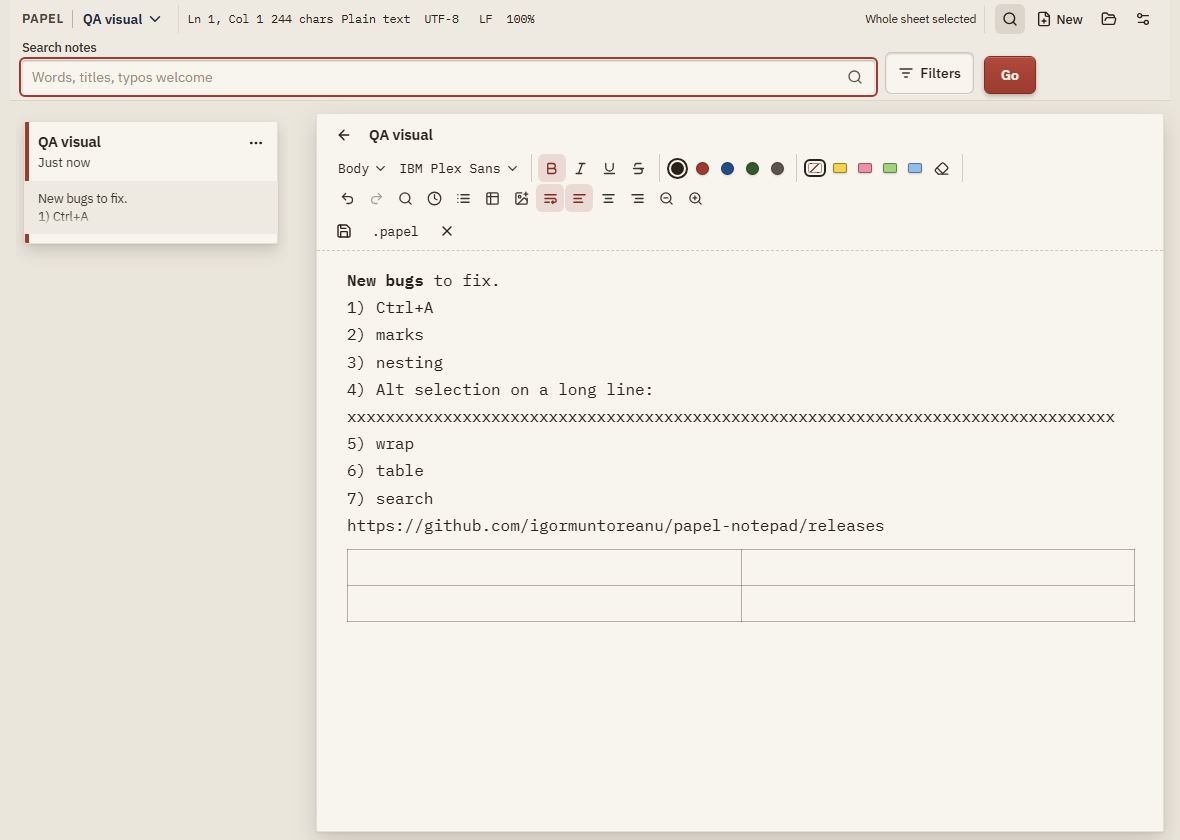
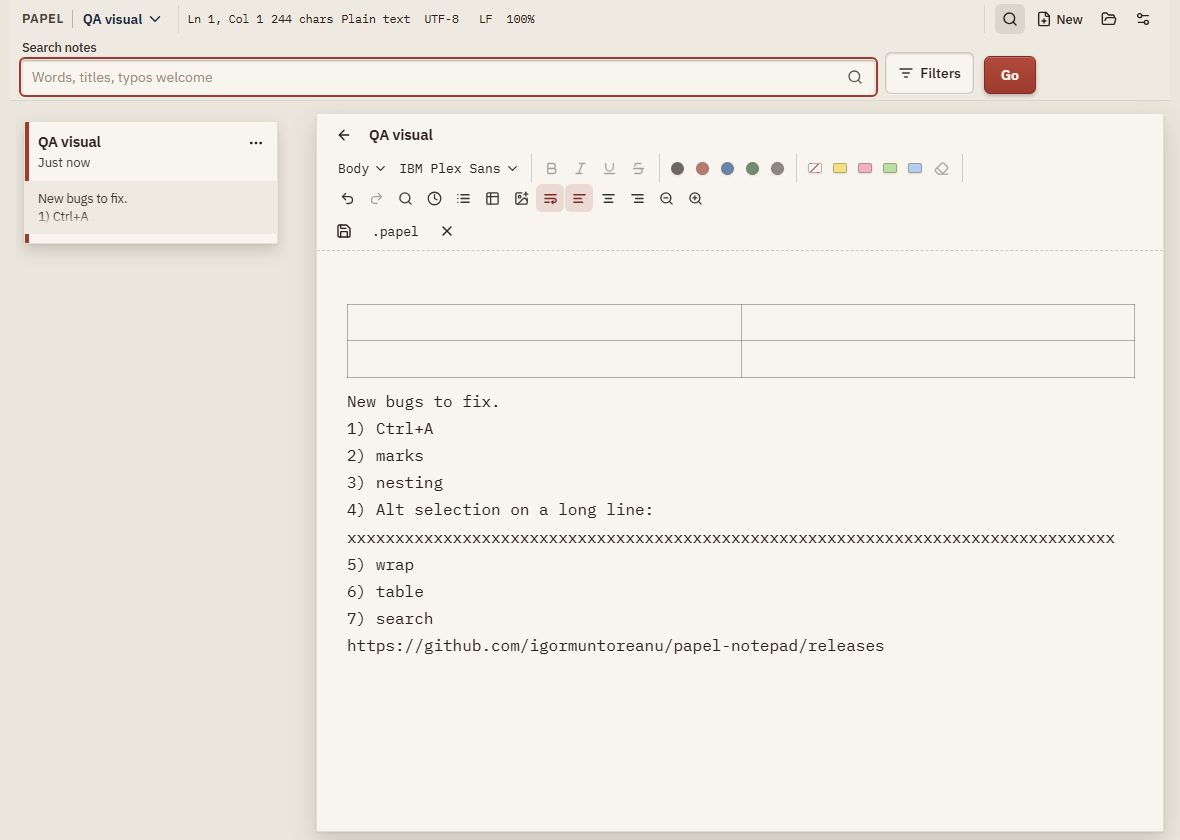
Fix table insert at caret and stop scroll jump on long notes.
Split the text block at the caret when inserting or pasting a table, and preserve sheet scrollTop across textarea fit() so large pastes do not jump to the top.

diff --git a/src/components/quire/quire-app.tsx b/src/components/quire/quire-app.tsx
@@ -775,16 +775,19 @@ export function QuireApp() {
     if (!session || !activeId) return;
     const cols = rows[0]?.length ?? 0;
     if (cols < 2 || rows.length === 0) return;
-    const id = session.insert_table(blockId, cols, rows.length);
+    const caret = liveCaret();
+    const at = caret.blockId === blockId ? Math.min(caret.start, caret.end) : session.text_of(blockId).length;
+    const placed = splitInsertTable(blockId, at, cols, rows.length);
+    if (!placed) return;
     rows.forEach((row, r) => {
       row.forEach((value, c) => {
-        if (value) session.table_set_text(id, r, c, value);
+        if (value) session.table_set_text(placed.tableId, r, c, value);
       });
     });
-    setSel({ blockId: id, start: 0, end: 0 });
+    setSel({ blockId: placed.belowId, start: 0, end: 0 });
     setMessage(`Pasted ${rows.length} × ${cols} as a table`);
     touch(activeId);
-    bump();
+    bump({ block_id: placed.belowId, start: 0, end: 0 });
   }
 
   function selectWholeSheet() {
@@ -866,15 +869,74 @@ export function QuireApp() {
     return index;
   }
 
-  /** Inserts a monospace table skeleton as text: one edit, one undo step. */
+  /**
+   * Splits text block `id` at UTF-16 offset `at`, inserts a table, and returns
+   * `{ tableId, belowId }` for the new table and the text block under it.
+   * Mirrors image insert: left text | table | right text.
+   */
+  function splitInsertTable(id: number, at: number, cols: number, rows: number): { tableId: number; belowId: number } | null {
+    if (!session) return null;
+    const full = session.text_of(id);
+    const cut = Math.max(0, Math.min(at, full.length));
+    const outlineBefore = outlineOf(session);
+    const blockIndex = outlineBefore.findIndex((item) => item.id === id);
+
+    // Caret at the end: keep the classic "table after this block" behaviour.
+    if (cut >= full.length) {
+      const tableId = session.insert_table(id, cols, rows);
+      const outline = outlineOf(session);
+      const tIdx = outline.findIndex((item) => item.id === tableId);
+      const below = tIdx >= 0 ? outline[tIdx + 1] : undefined;
+      return { tableId, belowId: below?.kind === "text" ? below.id : tableId };
+    }
+
+    // Caret at the start: insert after the previous block so we do not leave an
+    // empty text block above the table.
+    if (cut === 0 && blockIndex > 0) {
+      const prev = outlineBefore[blockIndex - 1]!;
+      const tableId = session.insert_table(prev.id, cols, rows);
+      return { tableId, belowId: id };
+    }
+
+    const left = full.slice(0, cut);
+    const right = full.slice(cut);
+    const priorMarks = readMarks(session.marks(id));
+    session.edit(id, 0, full.length, left, false);
+    const tableId = session.insert_table(id, cols, rows);
+    const outline = outlineOf(session);
+    const tIdx = outline.findIndex((item) => item.id === tableId);
+    const below = tIdx >= 0 ? outline[tIdx + 1] : undefined;
+    if (!below || below.kind !== "text") return { tableId, belowId: tableId };
+    if (right) {
+      session.edit(below.id, 0, 0, right, false);
+      for (const mark of priorMarks) {
+        if (mark.end <= cut) continue;
+        const from = Math.max(mark.start, cut) - cut;
+        const to = mark.end - cut;
+        if (to <= from) continue;
+        if (mark.flags & FLAG.bold) session.apply_style(below.id, from, to, "bold", 1);
+        if (mark.flags & FLAG.italic) session.apply_style(below.id, from, to, "italic", 1);
+        if (mark.flags & FLAG.underline) session.apply_style(below.id, from, to, "underline", 1);
+        if (mark.flags & FLAG.strike) session.apply_style(below.id, from, to, "strike", 1);
+        if (mark.ink) session.apply_style(below.id, from, to, "ink", mark.ink);
+        if (mark.hl) session.apply_style(below.id, from, to, "hl", mark.hl);
+      }
+    }
+    return { tableId, belowId: below.id };
+  }
+
+  /** Inserts a table at the caret, splitting the text block (same as paste image). */
   function insertTable(rows: number, cols: number) {
     if (!session) return;
-    const after = selRef.current.blockId || session.first_text_id();
-    const id = session.insert_table(after, cols, rows);
+    const { blockId, start, end } = liveCaret();
+    const id = blockId || session.first_text_id();
+    const at = Math.min(start, end);
+    const placed = splitInsertTable(id, at, cols, rows);
     setCellTarget(null);
-    setSel({ blockId: id, start: 0, end: 0 });
+    if (!placed) return;
+    setSel({ blockId: placed.belowId, start: 0, end: 0 });
     touch(activeId);
-    bump();
+    bump({ block_id: placed.belowId, start: 0, end: 0 });
   }
 
   /** Adds or removes `• ` on the lines the selection covers. */
@@ -984,6 +1046,19 @@ export function QuireApp() {
       const start = el.selectionStart ?? 0;
       const end = el.selectionEnd ?? start;
       if (Number.isFinite(blockId) && end > start) return { blockId, start, end };
+    }
+    return selRef.current;
+  }
+
+  /** Caret (or range) from the focused text editor, including a collapsed caret. */
+  function liveCaret(): Sel {
+    const el = document.activeElement;
+    if (el instanceof HTMLTextAreaElement && el.classList.contains("editor")) {
+      const host = el.closest<HTMLElement>(".block");
+      const blockId = Number(host?.dataset.blockId ?? "");
+      const start = el.selectionStart ?? 0;
+      const end = el.selectionEnd ?? start;
+      if (Number.isFinite(blockId)) return { blockId, start, end };
     }
     return selRef.current;
   }

diff --git a/src/components/quire/text-block.tsx b/src/components/quire/text-block.tsx
@@ -567,6 +567,10 @@ function revealCaret(ta: HTMLTextAreaElement) {
 }
 
 function fit(ta: HTMLTextAreaElement, wrap: boolean) {
+  // Measuring height via height:0 collapses the sheet for a frame and jumps scroll
+  // to the top on long notes — keep the sheet's scrollTop across the reflow.
+  const sheet = ta.closest(".sheet");
+  const scrollTop = sheet instanceof HTMLElement ? sheet.scrollTop : null;
   ta.style.height = "0px";
   if (!wrap) {
     ta.style.width = "0px";
@@ -580,6 +584,7 @@ function fit(ta: HTMLTextAreaElement, wrap: boolean) {
   // scroll viewport, letting painted marks drift away from the glyphs they mark.
   const pre = ta.parentElement?.querySelector("pre");
   if (pre instanceof HTMLElement) pre.style.width = ta.style.width;
+  if (sheet instanceof HTMLElement && scrollTop !== null) sheet.scrollTop = scrollTop;
 }
 
 /** Width of one character. The editor is monospace, so this is the column grid. */

diff --git a/rust/quire-core/src/document.rs b/rust/quire-core/src/document.rs
@@ -1046,8 +1046,8 @@ impl Document {
     /// A text block is always left directly after the table when the next block is
     /// not already text. Without it a table dropped at the end of the document is a
     /// dead end: there is nothing below to put the caret in, so writing cannot
-    /// continue past the table. `insert_image` splits its text block for the same
-    /// reason.
+    /// continue past the table. Prefer [`Self::insert_table_at`] when the caret is
+    /// inside a text block so the table splits that block mid-content.
     pub fn insert_table(&mut self, after: u32, cols: usize, rows: usize) -> u32 {
         let id = self.alloc_id();
         let cols = cols.clamp(1, 20);
@@ -1068,6 +1068,60 @@ impl Document {
         let caret = self.fallback_caret();
         self.push_structure(before, caret, caret);
         id
+    }
+
+    /// Inserts a table at UTF-16 offset `at` inside text block `id`, splitting that
+    /// block the same way [`Self::insert_image`] does: left text | table | right text.
+    ///
+    /// Returns the caret for the text block below the table (ready to keep typing).
+    /// When `id` is not a text block, falls back to inserting after that block.
+    pub fn insert_table_at(&mut self, id: u32, at: u32, cols: usize, rows: usize) -> Option<Caret> {
+        let cols = cols.clamp(1, 20);
+        let rows = rows.clamp(1, 20);
+        let idx = self.blocks.iter().position(|b| b.id() == id)?;
+        let body = match &self.blocks[idx] {
+            Block::Text { body, .. } => body.clone(),
+            _ => {
+                let table_id = self.insert_table(id, cols, rows);
+                let outline = self.outline();
+                let pos = outline.iter().position(|item| item.id == table_id)?;
+                let below = outline.get(pos + 1).filter(|item| item.kind == "text")?;
+                return Some(Caret { block_id: below.id, start: 0, end: 0 });
+            }
+        };
+        let before = self.blocks.clone();
+        let at = at.min(utf16_len(&body) as u32);
+        let left = slice_utf16(&body, 0, at as usize);
+        let right = slice_utf16(&body, at as usize, utf16_len(&body));
+        let table_id = self.alloc_id();
+        let right_id = self.alloc_id();
+        let mut right_marks = Vec::new();
+        if let Block::Text { body, marks: m, .. } = &mut self.blocks[idx] {
+            *body = left;
+            let (l, r) = marks::split(m, at);
+            *m = l;
+            right_marks = r;
+        }
+        self.blocks.insert(
+            idx + 1,
+            Block::Table {
+                id: table_id,
+                cols,
+                cells: vec![Cell::default(); cols * rows],
+            },
+        );
+        self.blocks.insert(
+            idx + 2,
+            Block::Text {
+                id: right_id,
+                body: right,
+                marks: right_marks,
+            },
+        );
+        let caret_before = Caret { block_id: id, start: at, end: at };
+        let caret_after = Caret { block_id: right_id, start: 0, end: 0 };
+        self.push_structure(before, caret_before, caret_after);
+        Some(caret_after)
     }
 
     /// Applies a style change over `start..end` inside one cell.
@@ -1621,6 +1675,23 @@ mod tests {
         let mut doc = Document::new();
         let id = doc.restore_table(3, vec![Cell::default(), Cell::default()]);
         assert_eq!(doc.table_shape(id), Some((1, 3)));
+    }
+
+    #[test]
+    fn insert_table_at_splits_text_at_the_caret() {
+        let mut doc = Document::new();
+        let text = doc.first_text_id();
+        doc.edit(text, 0, 0, "helloWORLD", false);
+        // Caret between hello and WORLD (offset 5).
+        let caret = doc.insert_table_at(text, 5, 2, 2).expect("split insert");
+        let outline = doc.outline();
+        assert_eq!(outline.len(), 3);
+        assert_eq!(outline[0].kind, "text");
+        assert_eq!(outline[1].kind, "table");
+        assert_eq!(outline[2].kind, "text");
+        assert_eq!(doc.text_of(text), "hello");
+        assert_eq!(doc.text_of(caret.block_id), "WORLD");
+        assert_eq!(caret.start, 0);
     }
 
     #[test]

diff --git a/rust/quire-wasm/src/lib.rs b/rust/quire-wasm/src/lib.rs
@@ -252,6 +252,14 @@ impl Session {
         self.doc.insert_table(after, cols as usize, rows as usize)
     }
 
+    /// Splits text block `id` at UTF-16 offset `at` and inserts a table there.
+    /// Returns the caret for the text below the table.
+    pub fn insert_table_at(&mut self, id: u32, at: u32, cols: u32, rows: u32) -> Option<Caret> {
+        self.doc
+            .insert_table_at(id, at, cols as usize, rows as usize)
+            .map(Caret::from)
+    }
+
     /// Loads a table from `{"cols":n,"cells":[{"t":"…","m":[…],"f":n}]}`.
     pub fn restore_table(&mut self, json: &str) -> u32 {
         #[derive(serde::Deserialize)]

diff --git a/AI_Documentation/qa/0.3.3/index.md b/AI_Documentation/qa/0.3.3/index.md
@@ -17,6 +17,12 @@ Blue rect visible; Word Wrap stays on (no sheet-wide horizontal break).
 
 After focusing a table cell, text selection enables Bold and paints emphasis.
 
+### Table at caret
+
+![Table at caret](./03-table-at-caret.png)
+
+After a long paste, Insert table splits at the caret — text above and below the table; viewport stays near the insert.
+
 
 ## Triage (evidence only)
 
@@ -39,10 +45,12 @@ Word wrap aria-pressed=true; alignment buttons visible in toolbar.
 Board/header search control opened from the toolbar/filters affordance.
 
 
-## Triage: list nesting / Enter
+### Table at caret
 
-Covered by harness case `list-caret-level-3` in `scripts/verify-bugs.mjs` (PASS on 0.3.3). No separate screenshot; caret ends on `1.1.2) X`.
+![Table at caret](./03-table-at-caret.png)
+
+After a long paste, Insert table splits at the caret — text above and below the table; viewport stays near the insert.
 
 ## Harness
 
-Also run `node scripts/verify-bugs.mjs` — includes `alt-drag-column`, `alt-drag-clears-without-wrap-off`, `toolbar-after-table-cell`.
+Also run `node scripts/verify-bugs.mjs` — includes `alt-drag-column`, `alt-drag-clears-without-wrap-off`, `toolbar-after-table-cell`, `table-insert-at-caret`.
